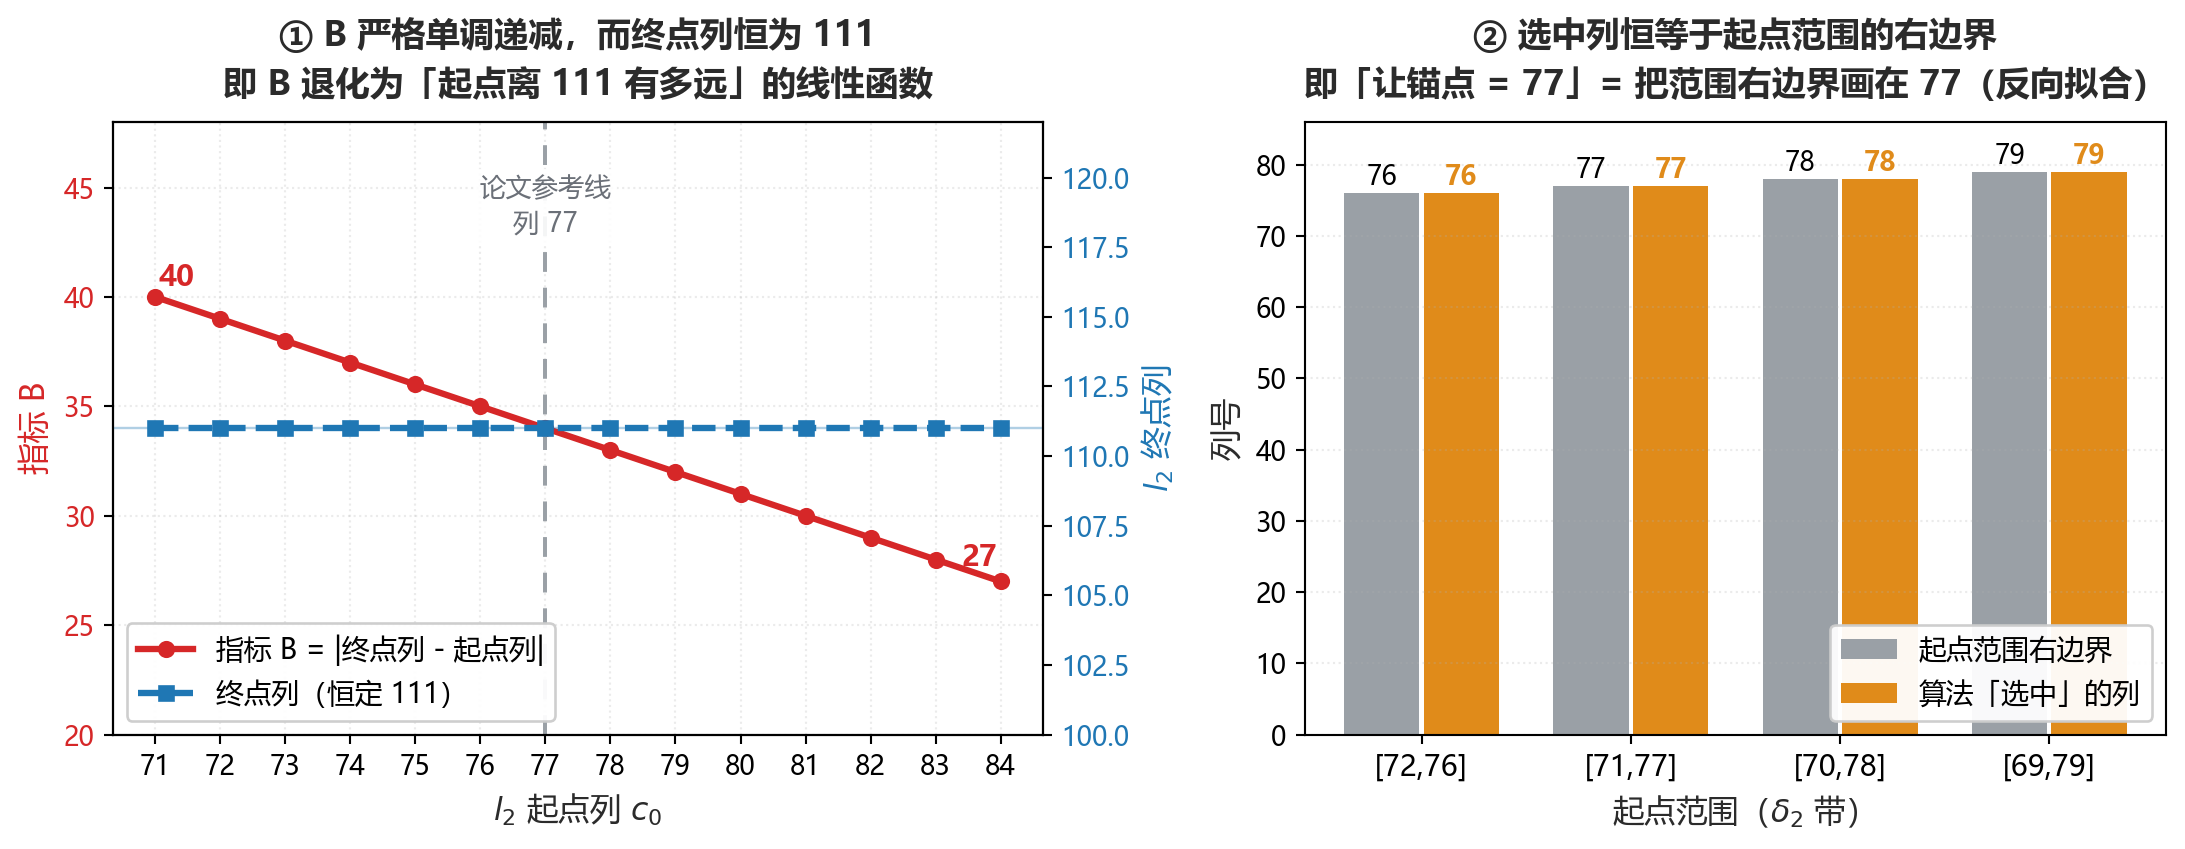
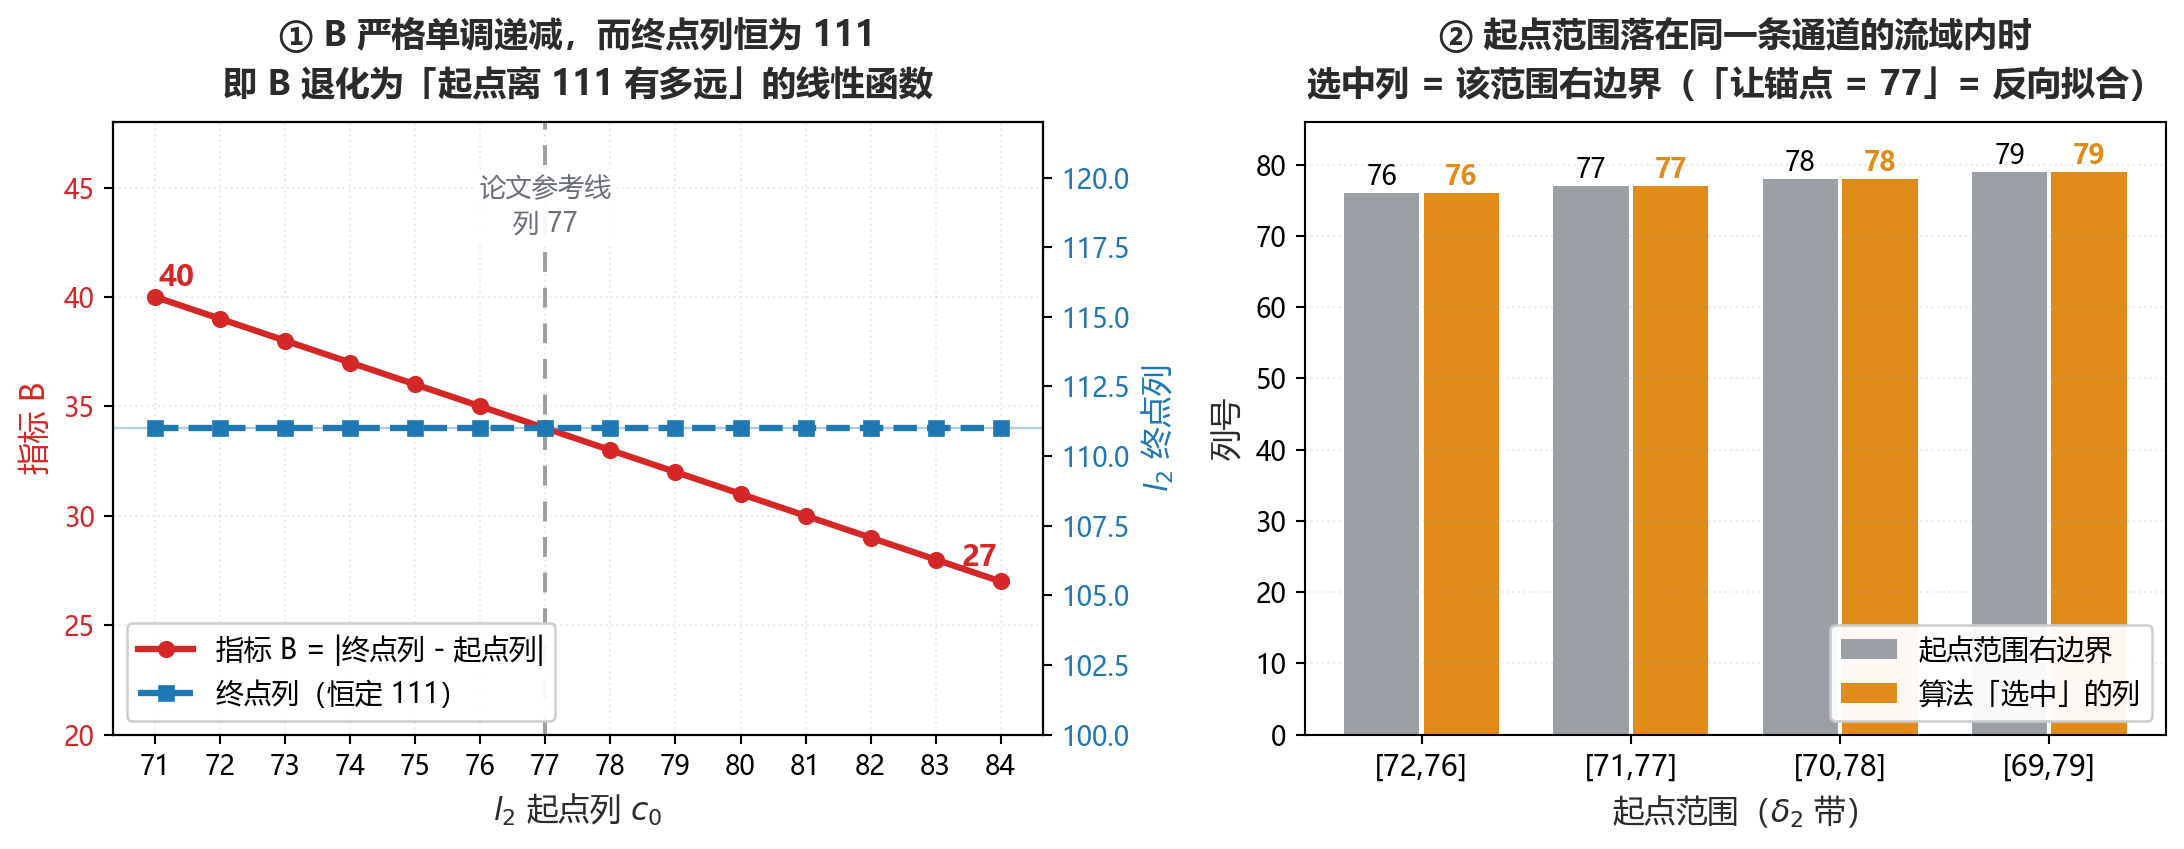
诊断: B退化的范围查清(与字形无关)/收严右边界口径/新增fig6

diff --git a/专利滴水算法实现/diagnostics/diag_B_degeneracy_scope.py b/专利滴水算法实现/diagnostics/diag_B_degeneracy_scope.py
@@ -1,0 +1,185 @@
+# -*- coding: utf-8 -*-
+"""
+B 指标退化：是"字形不同"造成的，还是"字形自身结构"造成的？
+================================================================
+判据（可 ASCII 判定）：
+  在 l2 起点带内逐列枚举起点 c0，收集**终点列的集合** E = {end_col(c0)}。
+
+  |E| = 1        -> 终点锁定 -> B = |常数 - c0| 是斜率为 -1 的直线 -> 退化
+  |E| >= 2       -> 终点会随起点移动 -> B 至少有区分度 -> 不退化（但可能是阶梯）
+
+关键点：这个判据**只用一个字形**就能跑。
+  若同一个字形的带内就已经 |E|=1，则"字形不同"既不是原因也不是条件。
+
+三条对照：
+  (1) 谱字A 全带        -> 输出 |E| 与阶梯剖面
+  (2) 谱字A 左半/右半   -> 分段的 |E|（看是不是阶梯）
+  (3) 谱字B 全带        -> 输出 |E|（预期 = 1：不同字形，同样退化）
+
+出图：汇报/figs/fig6_B退化范围.png
+  (a) 终点列 vs 起点列（阶梯剖面）：谱字A 两级、谱字B 一级
+  (b) B = |终点列 - 起点列| vs 起点列：谱字A 在 c0=46 触零、谱字B 一路线性
+
+⚠ 读图口径：load_ink（RGB 逐通道 <128）。不要用 convert('L')。
+运行：cd 专利滴水算法实现 && python diagnostics/diag_B_degeneracy_scope.py
+"""
+import os
+import sys
+
+import numpy as np
+import matplotlib
+matplotlib.use('Agg')
+import matplotlib.pyplot as plt
+
+HERE = os.path.dirname(os.path.abspath(__file__))
+sys.path.insert(0, os.path.abspath(os.path.join(HERE, '..')))
+
+from run_real import load_ink                            # noqa: E402
+from segment import bidirectional_segment                # noqa: E402
+from improved_droplet import drop_improved, path_metrics, is_open  # noqa: E402
+
+GLYPHS = os.path.abspath(os.path.join(HERE, '..', '..', '文献', 'glyphs'))
+OUT = os.path.abspath(os.path.join(HERE, '..', '..', '汇报', 'figs'))
+
+plt.rcParams['font.sans-serif'] = ['Microsoft YaHei', 'SimHei']
+plt.rcParams['axes.unicode_minus'] = False
+plt.rcParams['savefig.facecolor'] = 'white'
+plt.rcParams['figure.facecolor'] = 'white'
+
+INK = '#2b2b2b'
+RED = '#d62728'
+GRN = '#2e9e4f'
+BLU = '#1f77b4'
+ORG = '#e08b1a'
+GRY = '#9aa0a6'
+
+
+def l2_band(W):
+    """segment.py 的 δ2 = (2/7 M, 3/5 M)。"""
+    w1 = int(round(2 / 7 * W)); w2 = int(round(3 / 5 * W))
+    return list(range(max(1, w1), min(W - 1, w2)))
+
+
+def scan(ink, cols, l1_set):
+    """在给定起点列集合上枚举，返回逐列的 (c0, end_col, B, stopped_by)。"""
+    out = []
+    for c0 in cols:
+        if not is_open(ink, 0, c0):
+            continue
+        r = drop_improved(ink, 0, c0, (1, 0), terminate_at=l1_set)
+        m = path_metrics(r, (1, 0))
+        out.append((c0, r['end'][1], m['B'], r['stopped_by']))
+    return out
+
+
+def rle(rows):
+    """把 c0->end_col 剖成连续段，看是不是阶梯函数。"""
+    segs = []
+    for c0, e, _B, _s in rows:
+        if segs and segs[-1][2] == e and segs[-1][1] == c0 - 1:
+            segs[-1][1] = c0
+        else:
+            segs.append([c0, c0, e])
+    return ' '.join(f'{a}-{b}->{e}' if a != b else f'{a}->{e}' for a, b, e in segs)
+
+
+def report(tag, rows):
+    if not rows:
+        print(f'{tag}: (no open entry)')
+        return None
+    ends = sorted({r[1] for r in rows})
+    Bs = sorted({r[2] for r in rows})
+    hit = sum(1 for r in rows if r[3] == 'terminate_at')
+    print(f'{tag}: n={len(rows):3d}  |E|={len(ends):2d} '
+          f'end_cols={ends[:8]}{"..." if len(ends) > 8 else ""}  '
+          f'B_range=[{min(Bs)},{max(Bs)}]  reach_l1={hit}/{len(rows)}')
+    return ends
+
+
+def per_glyph(name, fname, subbands=None):
+    ink = load_ink(os.path.join(GLYPHS, fname))
+    H, W = ink.shape
+    res = bidirectional_segment(ink, metric='D', metric2='B')
+    l1_set = set(res['l1_path'])
+    band = l2_band(W)
+    pick = res['start2'][1]
+    print(f'\n=== {name}  ({fname})  {W}x{H}   '
+          f'band=[{band[0]},{band[-1]}] ({len(band)} cols)  '
+          f'algo_pick={pick}  anchor_col={res["intersect"][1]}')
+    prof = scan(ink, band, l1_set)
+    report('  full band  ', prof)
+    print(f'  阶梯剖面   : {rle(prof)}')
+    if subbands:
+        mid = (band[0] + band[-1]) // 2
+        for tg, cols in (('  left half  ', [c for c in band if c <= mid]),
+                         ('  right half ', [c for c in band if c > mid])):
+            report(tg, scan(ink, cols, l1_set))
+    return dict(name=name, band=band, prof=prof, pick=pick,
+                anchor=res['intersect'][1])
+
+
+def make_fig(data):
+    """图6：(a) 终点列阶梯剖面  (b) B 随起点列的走向。"""
+    fig, (axR, axB) = plt.subplots(2, 1, figsize=(9.8, 7.0), sharex=True,
+                                   gridspec_kw=dict(height_ratios=[1, 1],
+                                                    hspace=0.16))
+    colors = [RED, BLU]
+    for d, col in zip(data, colors):
+        c0 = [r[0] for r in d['prof']]
+        endc = [r[1] for r in d['prof']]
+        Bs = [r[2] for r in d['prof']]
+        lab = f"{d['name']}（带 [{d['band'][0]},{d['band'][-1]}]）"
+        axR.step(c0, endc, where='post', color=col, lw=2.4, label=lab)
+        axR.plot(c0, endc, ls='none', marker='o', ms=3.5, color=col, alpha=0.6)
+        axB.plot(c0, Bs, color=col, lw=2.4, label=lab)
+        axB.plot(c0, Bs, ls='none', marker='o', ms=3.5, color=col, alpha=0.6)
+        axB.plot([d['pick']], [min(Bs)], marker='*', ms=17, color=ORG,
+                 mec='white', mew=1.1, zorder=6)
+
+    axR.set_ylabel('$l_2$ 终点列 $E(c_0)$', fontsize=12, color=INK)
+    axR.set_ylim(28, 152)
+    axR.grid(alpha=0.25, ls=':')
+    axR.legend(fontsize=10.5, loc='center right', framealpha=0.95)
+    axR.set_title('终点列是"起点列"的阶梯函数：同一级内终点恒定\n'
+                  '（谱字A 两级 46 / 111；谱字B 整整 43 列只有一级 127）',
+                  fontsize=13.5, fontweight='bold', color=INK, pad=10,
+                  linespacing=1.5)
+    # 台阶标注
+    axR.annotate('42-49 -> 46', xy=(45.5, 46), xytext=(43, 74), color=RED,
+                 fontsize=10.5, fontweight='bold',
+                 arrowprops=dict(arrowstyle='-|>', color=RED, lw=1.3))
+    axR.annotate('50-87 -> 111', xy=(78, 111), xytext=(63, 88), color=RED,
+                 fontsize=10.5, fontweight='bold',
+                 arrowprops=dict(arrowstyle='-|>', color=RED, lw=1.3))
+    axR.annotate('40-82 -> 127（唯一一级，终点在带外）', xy=(62, 127),
+                 xytext=(43, 140), color=BLU, fontsize=10.5,
+                 fontweight='bold',
+                 arrowprops=dict(arrowstyle='-|>', color=BLU, lw=1.3))
+
+    axB.set_xlabel('$l_2$ 起点列 $c_0$（论文 $\\delta_2$ 带内逐列）', fontsize=12,
+                   color=INK)
+    axB.set_ylabel('$l_2$ 指标 B', fontsize=12, color=INK)
+    axB.set_ylim(0, 118)
+    axB.grid(alpha=0.25, ls=':')
+    axB.legend(fontsize=10.5, loc='upper center', framealpha=0.95)
+    axB.set_title('同一级内 B 单调 => B 只反映"起点离那个通道有多远"\n'
+                  '（★ = 算法实际选中；谱字A 触零于 c0=46，即"起点=终点"）',
+                  fontsize=13.5, fontweight='bold', color=INK, pad=10,
+                  linespacing=1.5)
+    axB.annotate('B = 0：起点即终点\nB 对中途偏移完全不敏感', xy=(46, 0),
+                 xytext=(50, 22), color=ORG, fontsize=10.5, fontweight='bold',
+                 linespacing=1.4,
+                 bbox=dict(fc='white', ec=ORG, lw=1.0, alpha=0.95, pad=2.5),
+                 arrowprops=dict(arrowstyle='-|>', color=ORG, lw=1.3))
+
+    fig.savefig(os.path.join(OUT, 'fig6_B退化范围.png'), dpi=190,
+                bbox_inches='tight')
+    plt.close(fig)
+    print('\n[fig] ->', os.path.join(OUT, 'fig6_B退化范围.png'))
+
+
+if __name__ == '__main__':
+    print('判据：|E|=1 => B 退化为直线（终点锁定）；|E|>=2 => 阶梯/不退化')
+    data = [per_glyph('谱字A (p49_img4)', 'p49_img4.png', subbands=True),
+            per_glyph('谱字B (p47_img1)', 'p47_img1.png')]
+    make_fig(data)

diff --git a/汇报/make_figs.py b/汇报/make_figs.py
@@ -239,8 +239,8 @@ def fig2(info):
     axR.set_ylabel('列号', fontsize=12, color=INK)
     axR.grid(axis='y', alpha=0.25, ls=':')
     axR.legend(fontsize=10.5, loc='lower right', framealpha=0.95)
-    axR.set_title('② 选中列恒等于起点范围的右边界\n'
-                  '即「让锚点 = 77」= 把范围右边界画在 77（反向拟合）',
+    axR.set_title('② 起点范围落在同一条通道的流域内时\n'
+                  '选中列 = 该范围右边界（「让锚点 = 77」= 反向拟合）',
                   fontsize=13, fontweight='bold', color=INK, pad=10,
                   linespacing=1.5)
 
@@ -307,8 +307,10 @@ def fig2b():
     ax.set_xlim(62.0, 86.5)
     ax.set_ylim(-0.7, 4.9)
     ax.axis('off')
-    ax.set_title('换任何起点范围，选中列都 = 右边界（反向拟合的形态）',
-                 fontsize=14.5, fontweight='bold', color=INK, pad=10)
+    ax.set_title('起点范围落在同一条通道的流域内时，选中列 = 该范围右边界\n'
+                 '（前提：范围只覆盖一条通道；跨两条通道则不然，如谱字A [42,87] 选 46）',
+                 fontsize=13, fontweight='bold', color=INK, pad=10,
+                 linespacing=1.5)
 
     def X(c):        # 列号 -> 横坐标（恒等：列号即数据坐标）
         return float(c)

diff --git a/.workbuddy/memory/2026-09-19.md b/.workbuddy/memory/2026-09-19.md
@@ -245,3 +245,55 @@ l₂ 起点恒 72、穿墨 l₁ 211 vs 745 / l₂ 267 vs 131、IoU ≤0.14、
 集A 集B 准确率、B=38/D=15、#6 15 个 B=0 并列 / #9 3 个并列。
 已提交 `bc59036` 之后的下一笔（精简稿），推送成功。
 
+---
+
+## 第五件：机制两图（吸引子 / 右边界）重绘入稿（用户指令"这两个图片也可以适当加入汇报文稿中"）
+
+- 用户贴了两张剪贴板示意图，按汇报稿统一 matplotlib 风格**重绘**进 `汇报/make_figs.py`：
+  - `fig2a_attractor.png`：吸引子示意（带内起点 52/63/77/105 都滑入同一条干净通道，终点恒 111）；
+  - `fig2b_band_right_edge.png`：四种起点范围 [72,76]~[69,79] → 选中列都=各自右边界。
+- **fig2b 坐标映射 bug 一次**：`X(c)=(c-68)*0.62+1.6` 把色块压成线 → 改恒等 `float(c)`、
+  xlim (62,86.5)、文本 x=62.6。重跑确认正常（7 张图全部生成）。
+- 入稿位置：§四 引文块之后、图3 之前，两图各配一句机制解释（为什么终点恒定 / 为什么选中右边界）。
+- 提交 `960f04e`；**push 被网络堵住**（CONNECT tunnel 502 / Empty reply，重试 3 次含等 20s 均失败）。
+  上次同样症状次日恢复。**待办：网络恢复后 `git push origin main`，并照例重建 origin/main 追踪引用。**
+
+---
+
+## 第六件：B 退化的**范围**查清（回答"是不是因为字形不同才会退化"）——答案是"不是"，且口径要收严
+
+`diagnostics/diag_B_degeneracy_scope.py`（新）出 `汇报/figs/fig6_B退化范围.png`（两面板）。
+判据：δ₂ 带内逐列枚举起点，看**终点列集合** `E`。
+
+| 字形 | 带 | \|E\| | 终点剖面 | 算法选中 |
+|---|---|---|---|---|
+| 谱字A `p49_img4` | [42,87] | **2** | `42-49→46` / `50-87→111` | **c0=46（B=0）** |
+| 谱字A 右段 | [50,87] | 1 | 全 111 | —— |
+| 谱字B `p47_img1` | [40,82] | **1** | `40-82→127` | c0=82 |
+
+**三条结论**：① 同一字形内部就退化（右段 23 列 |E|=1）⇒ 字形不同**不是原因**；
+② 换字形（谱字B）退化形态一模一样 ⇒ 也不是**条件**；
+③ 真正原因 = **带内是否存在唯一吸引通道**（汉字笔画间竖直空隙），属**族类通性**。
+
+### 统一模型（把两族失效合起来，ADR 0003 已写）
+段内终点恒定 `E_段` ⇒ `B = |E_段 − c0|`，只有两种情形：
+- `E_段` **在段内** ⇒ B=0 可段内取到（**族二 平凡解**；谱字A 左段 [42,49] E=46 ⇒ 选 46）
+- `E_段` **在段外** ⇒ 极小值在离它最近的段端点（**族一 边界拟合**；右段 [50,87] E=111 ⇒ 87；
+  fig2b 的四个窄带 ⇒ 76…79；谱字B [40,82] E=127 ⇒ **82**）
+- 全局选中 = 各段极小值的最小者（谱字A：0 < 24 ⇒ 46）
+
+### 顺带查出的两处口径问题（已改，勿回退）
+1. **ADR 0001 发现 3「选中列 ≡ 起点范围右边界」有前提**：① 只覆盖一条通道；② 终点在范围外。
+   谱字A 的实际 δ₂ 带 [42,87] 横跨两条 ⇒ 选中 46，**不是**带端点。
+   → 已收严：`汇报/项目汇报稿.md` §四 那句「让锚点落在 0.524 等价于把右边界画在 0.524」
+   改为「同一通道流域内，B 的极小值必落在离该通道最近的带端点」；并补一段
+   「δ₂ 带其实横跨两条通道、实际选中的 46 正是 B=0 平凡解」。
+   → `make_figs.py` 的 fig2 右面板标题、fig2b 标题都补了前提（原「换任何起点范围」过强），已重跑。
+2. **"带只约束起点，不约束终点"**：谱字B 终点 127 在带外（带最大 82），偏出 45 列。
+   → 写进 ADR 0003 与 CONTEXT.md。
+
+### 与既有结论的关系
+这**不改变**"不追逐 0.524"的成立（那条靠的是 `|E|=1`），但把它从"终点锁死"升级为
+**"终点锁死 + 起点段化"**：目标列的落点由"带端点画在哪"决定，机制更清楚也更难反驳。
+**汇报时务必说"谱字A 的 δ₂ 带横跨两条通道"**，否则被看出用的是恒等式特例。
+

diff --git a/专利滴水算法实现/docs/adr/0003-keep-metric2-B.md b/专利滴水算法实现/docs/adr/0003-keep-metric2-B.md
@@ -92,6 +92,52 @@ D = d + |x°−x*| + v 把**熔断量 d** 加进分数，锯墨路径 d>0 被罚
 
 命令：`cd 专利滴水算法实现 && python eval_paper_tables.py`（第 [4] 节）。
 
+## 退化范围：与"字形是否相同"无关（2026-09-19 实测，出图）
+
+**判据（ASCII 可判定）**：在 δ₂ 带内逐列枚举起点 `c0`，收集**终点列集合** `E = {end_col(c0)}`。
+`|E| = 1` → 终点锁定 → `B = |常数 − c0|` 退化为斜率 −1 的直线；`|E| ≥ 2` → 终点随起点变（但可能是阶梯）。
+
+复现：`diagnostics/diag_B_degeneracy_scope.py`（出 `汇报/figs/fig6_B退化范围.png`）。
+
+| 字形 | 带 | `|E|` | 终点列剖面（阶梯） | 算法选中 |
+|---|---|---|---|---|
+| 谱字A `p49_img4` (147×185) | [42,87] | **2** | `42-49→46` / `50-87→111` | **c0=46**（B=0） |
+| 谱字A 右段（剖面所见） | [50,87] | **1** | 全 111 | —— |
+| 谱字B `p47_img1` (139×212) | [40,82] | **1** | `40-82→127` | c0=82 |
+
+**三条结论**
+
+1. **退化不需要"换字"**：同一个字形、同一张图，只要把带收窄到右半 `[50,87]`（23 列），
+   `|E|` 就已经是 1，`B` 就已经是直线。→ **"字形不同"不是退化的原因。**
+2. **换个字形，退化形态一模一样**：谱字B 是完全不同的字形（粘连字、139×212），
+   整条带 43 列 `|E|` 同样是 1。→ **"字形不同"也不是退化的条件。**
+3. 真正的决定因素是**带内是否存在唯一吸引通道**（终点是否随起点移动）。
+   字形差异只改变**退化的具体取值**（端点列是 46 / 111 / 127、剖面有几级），
+   不改变**退化的发生**。→ 这是汉字笔画图的**族类通性**（笔画间的竖直空隙即通道），
+   正因为它普遍，才必须警惕。
+
+**统一规则（把两族失效合起来看）**
+
+带被切成若干**段**，每段内终点列是常量 `E_段`。段内 `B = |E_段 − c0|`，于是只有两种情形：
+
+| 情形 | 条件 | B 的极小点 | 归属 | 实例 |
+|---|---|---|---|---|
+| 终点在段内 | `E_段 ∈ [lo, hi]` | **段内某列取到 B=0** | 族二 平凡解 | 谱字A 左段 [42,49]，`E=46` ⇒ c0=46 |
+| 终点在段外 | `E_段 ∉ [lo, hi]` | **离 `E_段` 最近的段端点** | 族一 边界拟合 | 谱字A 右段 [50,87]，`E=111` ⇒ c0=87；谱字B [40,82]，`E=127` ⇒ c0=82；fig2b 的 [72,76]…[69,79] ⇒ 76…79 |
+
+**全局选中 = 各段极小值中的最小者**（谱字A：左段 0 < 右段 24 ⇒ 选 c0=46）。
+
+**由此得到两条口径修正**
+
+- ADR `0001` 发现 3 的「选中列 ≡ 起点范围右边界」**有前提**：① 范围只覆盖**同一条通道**，
+  ② 该通道的终点列**落在范围之外**。前提不成立时选中列可以是带内任意列（谱字A 的 [42,87] ⇒ 46）。
+- **带只约束起点，不约束终点**：谱字B 的终点列 `127` 远在带外（带最大 82），
+  水滴被偏出 45 列。这本身就是"终点由通道决定、与起点无关"的直接证据。
+
+**与 B=0 平凡解同源**：谱字A 实际选中的 `c0 = 46` 是一条"起点即终点"的净位移 0 路径
+（`B = 0` 全局最小、无可挑战），与 #9 号 `c0=52` 锯穿 29px 同为 `B = 0`
+—— 判断"路径有没有压在墨上"这件事，B 这两处都不看。
+
 ## 代价与翻案条件
 
 **代价（为什么现在不改）**

diff --git a/汇报/项目汇报稿.md b/汇报/项目汇报稿.md
@@ -47,9 +47,11 @@
 
 *图2 ① B 严格单调递减、终点列恒为 111；② 选中列恒等于起点范围的右边界*
 
-对谱字A 把 l₂ 起点列 71→84 逐列试：**B = 40→27 严格单调、终点列恒为 111** —— B 已退化为"起点离 111 有多远"的线性函数。起点范围 `[72,76] / [71,77] / [70,78] / [69,79]` 分别"选中" 76/77/78/79，**选中列 ≡ 范围右边界**。
+对谱字A 把 l₂ 起点列 71→84 逐列试：**B = 40→27 严格单调、终点列恒为 111** —— B 已退化为"起点离 111 有多远"的线性函数。起点范围 `[72,76] / [71,77] / [70,78] / [69,79]` 分别"选中" 76/77/78/79，**选中列 ≡ 范围右边界**（前提：范围只覆盖同一条通道）。
 
-> **让锚点落在 0.524，等价于把起点范围的右边界画在 0.524。这不是算法在选优，是人在反向拟合 —— 该目标不构成对算法的检验。**
+> **同一通道流域内，B 的极小值必定落在离该通道最近的带端点 —— 想让 l₂ 切分线落在列 0.524，只要把那个端点画到 0.524。这不是算法在选优，是人在反向拟合 —— 该目标不构成对算法的检验。**
+
+口径补严：论文 δ₂ 带 `[42,87]` 其实**横跨两条通道**，终点列剖面是**两级阶梯**（`42–49→46 / 50–87→111`），算法实际选中 `c₀ = 46` —— 恰好是"起点即终点"的 **B = 0 平凡解**。也就是说 B 在谱字A 上选出的是一条**直落**路径，对中途偏移完全不敏感（该失效家族与第 9 号谱字"锯穿笔画 B=0"同一个，见第五节）。
 
 这两句话背后的机制如下。**为什么终点列恒为 111**：谱字A 右簇笔画间有一条干净通道，带内不管从哪一列起滴，水滴都贴着笔画侧滑、汇入同一条通道（吸引子效应）——
 

diff --git a/专利滴水算法实现/CONTEXT.md b/专利滴水算法实现/CONTEXT.md
@@ -120,6 +120,21 @@ Q < 0 时原位不动，k ← -k，s ← s+2。
 > **暂不改默认值**（改它要重跑全部已公布数字，且粘连字那半边缺证据）。
 > 完整记录见 `docs/adr/0003`。
 
+> ⚠ **B 的两族失效（2026-09-19 实测，与"字形是否相同"无关）**
+> 判据：δ₂ 带内逐列枚举起点，看**终点列集合** `E`。段内终点恒定 ⇒ `B = |E_段 − c0|`。
+> - **族一｜边界拟合**：终点列在范围**外** ⇒ 极小值落在**离终点最近的段端点**
+>   ⇒ "选中列 ≡ 带端点"。谱字B [40,82] 终点 127 在外 ⇒ 选 82；fig2b 的 [72,76]…[69,79] ⇒ 76…79。
+> - **族二｜B=0 平凡解**：终点列在范围**内** ⇒ `B=0` 可在段内取到，无从挑战，
+>   哪怕它锯穿笔画。谱字A 左段 [42,49] 终点 46 ⇒ 实际选中的 c0=46 即此族；
+>   #9 号 c0=52 锯穿 29px 同理。
+> - 横跨多条通道时是**阶梯**：谱字A δ₂=[42,87] 剖面 `42-49→46 / 50-87→111`（两级），
+>   全局选 46；**故 ADR 0001 的"选中列 ≡ 右边界"是有前提的**。
+> - 同一字形内部就退化（谱字A 右半带 23 列 `|E|=1`）；**换字形也一样**（谱字B 全带 43 列
+>   `|E|=1`，且终点 127 在带外）⇒ 原因是**笔画间的竖直通道结构**，属汉字图形通性。
+>   另注：**带只约束起点、不约束终点**。
+>
+> 复现：`diagnostics/diag_B_degeneracy_scope.py` → `汇报/figs/fig6_B退化范围.png`。
+
 ### 度量 / 量（**实测出来的数**）
 比如 x_rel = 0.524、锚点列 = 46、漂移 = 0。
 **"指标层"和"度量口径"是两件完全不同的事**：
